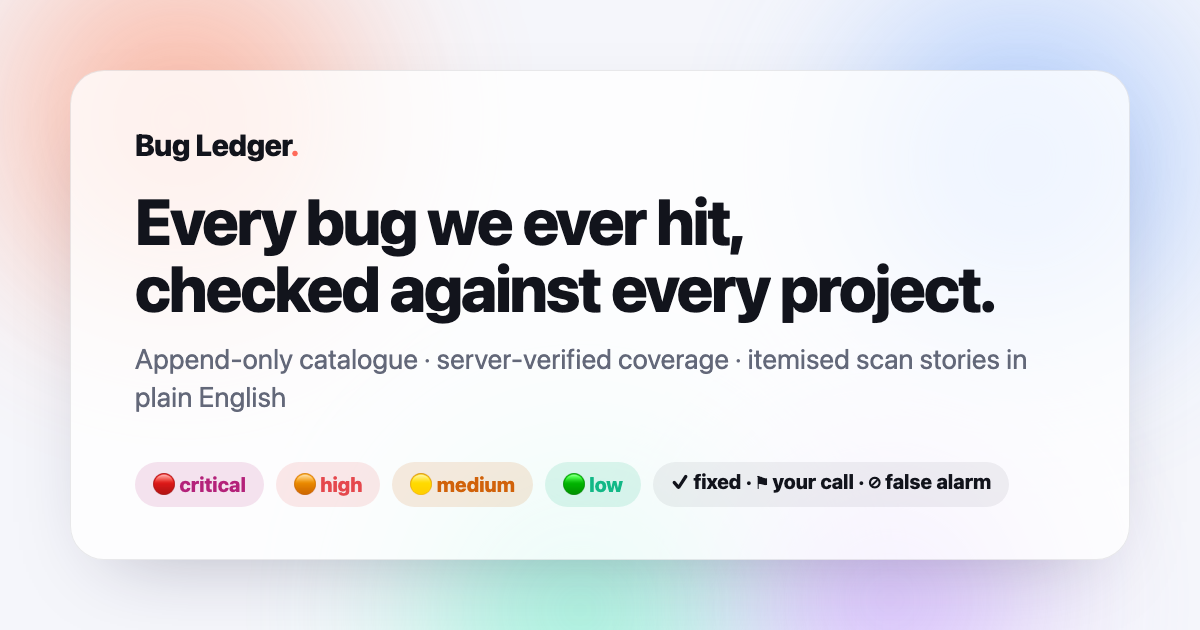
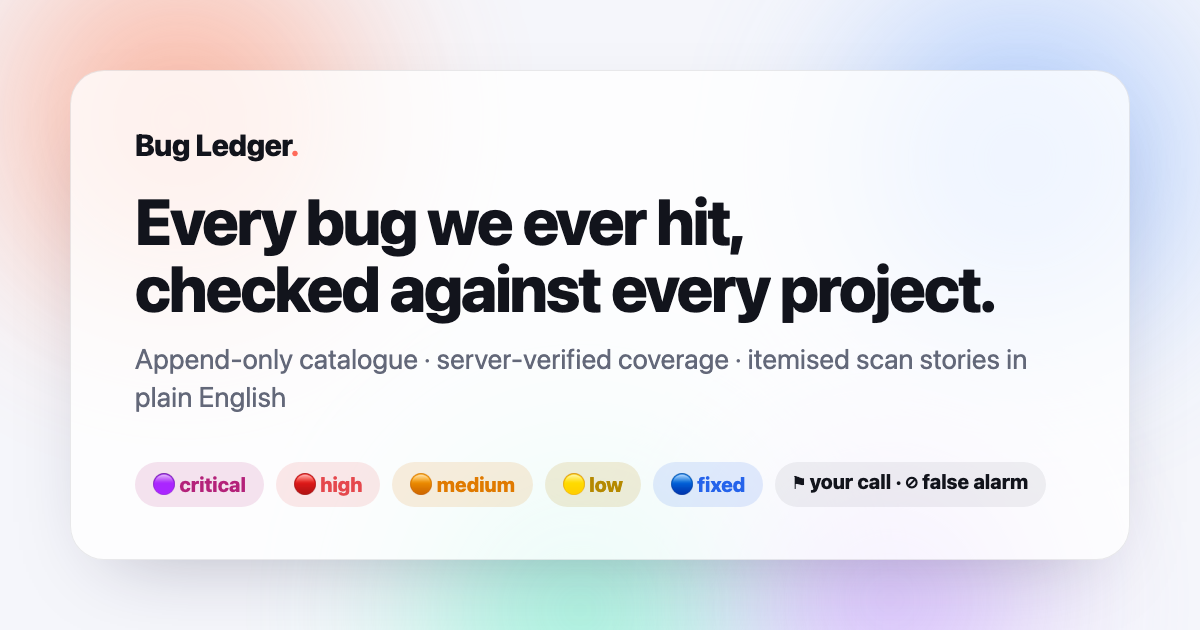
story: red high / blue fixed ladder, coverage donut back in the hero, tooltips on every tag, legacy-session copy

diff --git a/public/report.html b/public/report.html
@@ -17,12 +17,12 @@
     --bg:#f5f6fb; --ink:#12141c; --muted:#636879; --card:rgba(255,255,255,.76); --card2:rgba(255,255,255,.55);
     --line:rgba(18,20,28,.09); --coral:#ff6a5a; --good:#12b886; --violet:#8b7bf0; --amber:#e08a00; --red:#e5484d;
     --shadow:0 16px 44px -24px rgba(30,25,60,.32);
-    --crit:#b4227a; --high:#e5484d; --med:#d1620a; --low:#12b886; --info:#3b82f6; --gray:#6b7280;
-    --critbg:rgba(180,34,122,.12); --highbg:rgba(229,72,77,.12); --medbg:rgba(209,98,10,.13); --lowbg:rgba(18,184,134,.13); --infobg:rgba(59,130,246,.12);
+    --crit:#b4227a; --high:#e5484d; --med:#e07a00; --low:#b58900; --info:#6b7280; --fixed:#2563eb; --clean:#12b886; --gray:#6b7280;
+    --critbg:rgba(180,34,122,.12); --highbg:rgba(229,72,77,.12); --medbg:rgba(224,122,0,.13); --lowbg:rgba(181,137,0,.14); --infobg:rgba(107,114,128,.12); --fixedbg:rgba(37,99,235,.12); --cleanbg:rgba(18,184,134,.13);
   }
   @media (prefers-color-scheme:dark){
     :root{ --bg:#0b0d15; --ink:#eef0f7; --muted:#9aa0b4; --card:rgba(255,255,255,.055); --card2:rgba(255,255,255,.035);
-      --line:rgba(255,255,255,.11); --shadow:0 24px 60px -24px rgba(0,0,0,.7); --med:#f0883e; --low:#3ddc9a; }
+      --line:rgba(255,255,255,.11); --shadow:0 24px 60px -24px rgba(0,0,0,.7); --med:#f59e42; --low:#e3c000; --fixed:#60a5fa; --clean:#3ddc9a; }
   }
   html,body{margin:0;min-height:100%}
   body{font:16px/1.55 -apple-system,BlinkMacSystemFont,"Segoe UI",Inter,Roboto,sans-serif;color:var(--ink);
@@ -66,11 +66,13 @@
   .pill{display:inline-flex;align-items:center;gap:5px;font-size:11px;font-weight:800;letter-spacing:.03em;text-transform:uppercase;padding:3px 9px;border-radius:99px;white-space:nowrap;border:1px solid transparent;line-height:1.4}
   .pill.critical{color:var(--crit);background:var(--critbg)} .pill.high{color:var(--high);background:var(--highbg)}
   .pill.medium{color:var(--med);background:var(--medbg)} .pill.low{color:var(--low);background:var(--lowbg)} .pill.info{color:var(--info);background:var(--infobg)}
-  .pill.st-fixed{color:var(--good);background:var(--lowbg)} .pill.st-applied{color:var(--good);background:var(--lowbg)}
+  .pill.st-fixed{color:var(--fixed);background:var(--fixedbg)} .pill.st-applied{color:var(--fixed);background:var(--fixedbg)}
   .pill.st-open{color:var(--high);background:var(--highbg)} .pill.st-needs-call{color:var(--med);background:var(--medbg)}
   .pill.st-false-positive{color:var(--gray);background:color-mix(in srgb,var(--gray) 14%,transparent)}
   .pill.st-recommended{color:var(--violet);background:color-mix(in srgb,var(--violet) 14%,transparent)}
-  .pill.st-wontfix{color:var(--gray);background:color-mix(in srgb,var(--gray) 14%,transparent)} .pill.st-clean{color:var(--good);background:var(--lowbg)}
+  .pill.st-wontfix{color:var(--gray);background:color-mix(in srgb,var(--gray) 14%,transparent)} .pill.st-clean{color:var(--clean);background:var(--cleanbg)}
+  .chip.fixedc{color:var(--fixed);border-color:color-mix(in srgb,var(--fixed) 50%,transparent)}
+  .tile.fixed .n{color:var(--fixed)}
   .chip{display:inline-flex;align-items:center;gap:5px;font-size:12px;font-weight:700;padding:3px 10px;border-radius:99px;border:1px solid var(--line);color:var(--muted);background:transparent;font-family:inherit;cursor:default;line-height:1.4}
   .chip.mono{font-family:ui-monospace,Menlo,monospace;font-size:11.5px;font-weight:600}
   .chip.ok{color:var(--good);border-color:color-mix(in srgb,var(--good) 50%,transparent)}
@@ -84,6 +86,8 @@
   .summary button.chip .n{font-weight:800;color:var(--ink)}
   .hero{display:flex;gap:22px;align-items:flex-start;flex-wrap:wrap}
   .hero .txt{flex:1;min-width:260px}
+  .donutwrap{flex:none;text-align:center;cursor:help}
+  .donutwrap .dl{font-size:11.5px;color:var(--muted);font-weight:700;margin-top:2px}
   .meta{display:grid;grid-template-columns:repeat(auto-fit,minmax(120px,1fr));gap:10px;min-width:220px}
   .meta .tile{background:var(--card2);border:1px solid var(--line);border-radius:14px;padding:10px 13px}
   .tile .n{font-size:24px;font-weight:800;letter-spacing:-.02em;line-height:1.05}
@@ -153,7 +157,7 @@
   @media (max-width:560px){.kv{grid-template-columns:1fr;gap:2px}}
   .kv .k{color:var(--muted);font-weight:700;font-size:12px;text-transform:uppercase;letter-spacing:.05em;padding-top:3px}
   .kv .v{white-space:pre-wrap;word-break:break-word}
-  .kv.fixv .v{color:var(--good)} .kv.fixv .v::before{content:"✓ "}
+  .kv.fixv .v{color:var(--fixed)} .kv.fixv .v::before{content:"✓ "}
   .kv.recv .v::before{content:"→ "}
   .actions{display:flex;gap:8px;flex-wrap:wrap;margin-top:4px}
   .caret{display:inline-block;transition:transform .2s;color:var(--muted);font-size:12px;margin-left:4px}
@@ -172,7 +176,7 @@
   .ev .dot{position:absolute;left:-24px;top:13px;width:8px;height:8px;border-radius:50%;background:var(--muted)}
   .ev.found .dot{width:10px;height:10px;left:-25px;top:12px}
   .ev.found.critical .dot{background:var(--crit)} .ev.found.high .dot{background:var(--high)} .ev.found.medium .dot{background:var(--med)} .ev.found.low .dot{background:var(--low)} .ev.found.info .dot{background:var(--info)}
-  .ev.fixed .dot,.ev.clean .dot{background:var(--good)} .ev.metric .dot{background:var(--violet)} .ev.caveat .dot{background:var(--amber)} .ev.verdict .dot{background:var(--ink)}
+  .ev.fixed .dot{background:var(--fixed)} .ev.clean .dot{background:var(--clean)} .ev.metric .dot{background:var(--violet)} .ev.caveat .dot{background:var(--amber)} .ev.verdict .dot{background:var(--ink)}
   .ev .ic{width:22px;text-align:center;font-size:15px;line-height:1.5}
   .ev .tx b{font-weight:700}
   .ev .tx .d{color:var(--muted);font-size:13.5px;margin-top:2px;white-space:pre-wrap}
@@ -262,16 +266,16 @@
   function copy(text,msg){ (navigator.clipboard?navigator.clipboard.writeText(text):Promise.reject()).then(function(){toast(msg||'Copied')}).catch(function(){
     var ta=document.createElement('textarea');ta.value=text;document.body.appendChild(ta);ta.select();try{document.execCommand('copy');toast(msg||'Copied')}catch(e){toast('Could not copy')}ta.remove();}); }
 
-  var SEV={critical:{ic:'🔴',lbl:'Critical',do:'Fix now',why:'Could expose data, break sign-in or take the app down for real users.'},
-           high:{ic:'🟠',lbl:'High',do:'Fix before the next release',why:'A real user hits this in normal use, or it is a security weakness an attacker could use.'},
-           medium:{ic:'🟡',lbl:'Medium',do:'Schedule it',why:'Degrades the experience for some users — accessibility, wrong dates, silent failures.'},
-           low:{ic:'🟢',lbl:'Low',do:'Polish when convenient',why:'Cosmetic or best-practice; no user is blocked.'},
-           info:{ic:'🔵',lbl:'Info',do:'For your awareness',why:'A note, a clean check or context — nothing to fix.'}};
+  var SEV={critical:{ic:'🟣',lbl:'Critical',do:'Fix now — beyond red',why:'Could expose data, break sign-in or take the app down for real users.'},
+           high:{ic:'🔴',lbl:'High',do:'Fix before the next release',why:'A real user hits this in normal use, or it is a security weakness an attacker could use.'},
+           medium:{ic:'🟠',lbl:'Medium',do:'Schedule it',why:'Degrades the experience for some users — accessibility, wrong dates, silent failures.'},
+           low:{ic:'🟡',lbl:'Low',do:'Polish when convenient',why:'Cosmetic or best-practice; no user is blocked.'},
+           info:{ic:'⚪',lbl:'Info',do:'For your awareness',why:'A note, a clean check or context — nothing to fix.'}};
   var SEVORDER=['critical','high','medium','low','info'];
-  var ST={fixed:{ic:'✓',lbl:'Fixed'},applied:{ic:'✓',lbl:'Applied'},open:{ic:'◌',lbl:'Open'},'needs-call':{ic:'⚑',lbl:'Needs your call'},
-          'false-positive':{ic:'⊘',lbl:'False alarm'},recommended:{ic:'★',lbl:'Recommended'},wontfix:{ic:'—',lbl:'Won’t fix'},clean:{ic:'✓',lbl:'Clean'}};
+  var ST={fixed:{ic:'🔵',lbl:'Fixed'},applied:{ic:'🔵',lbl:'Applied'},open:{ic:'◌',lbl:'Open'},'needs-call':{ic:'⚑',lbl:'Needs your call'},
+          'false-positive':{ic:'⊘',lbl:'False alarm'},recommended:{ic:'★',lbl:'Recommended'},wontfix:{ic:'—',lbl:'Won’t fix'},clean:{ic:'🟢',lbl:'Clean'}};
   var EV={detector:'detector ran','code-read':'code read',test:'test passed',reasoned:'reasoned',assumed:'assumed'};
-  var STTIP={fixed:'Done during the scan. The change is made and described — nothing for you to do.',applied:'This upgrade was applied during the scan.',open:'Real and not yet fixed. Use “copy fix prompt” to hand it to an agent.','needs-call':'A decision only you can make — wording, policy or a destructive change. The agent explains and recommends; you decide.','false-positive':'The scanner flagged it; the agent read the code and ruled it out. Kept so you can see the reasoning.',recommended:'An optimiser (a reusable upgrade) this project would benefit from — not a bug.',wontfix:'Judged not worth changing, with the reason given.',clean:'Checked and nothing found.'};
+  var STTIP={fixed:'Blue = done during the scan. The change is made and described — nothing for you to do.',applied:'This upgrade was applied during the scan.',open:'Real and not yet fixed. Use “copy fix prompt” to hand it to an agent.','needs-call':'A decision only you can make — wording, policy or a destructive change. The agent explains and recommends; you decide.','false-positive':'The scanner flagged it; the agent read the code and ruled it out. Kept so you can see the reasoning.',recommended:'An optimiser (a reusable upgrade) this project would benefit from — not a bug.',wontfix:'Judged not worth changing, with the reason given.',clean:'Checked and nothing found.'};
   var EVTIP={detector:'A static check fired — deterministic, but only a lead until someone reads the line.','code-read':'The agent opened the file and confirmed it — the strongest everyday evidence.',test:'Proven by running a test.',reasoned:'Inferred, not inspected — treat as a claim.',assumed:'Assumed without checking — the weakest evidence.'};
   function tipAttr(head,doTxt,why){return ' tabindex="0" data-tip="'+esc(JSON.stringify({h:head,d:doTxt||'',w:why||''}))+'"';}
   function sevPill(s){s=SEV[s]?s:'info';return '<span class="pill '+s+'"'+tipAttr(SEV[s].ic+' '+SEV[s].lbl+' severity',SEV[s].do,SEV[s].why)+'>'+SEV[s].ic+' '+SEV[s].lbl+'</span>';}
@@ -361,7 +365,10 @@
 
     var html='';
     // ---- hero ----
-    html+='<div class="card"><div class="hero"><div class="txt">'+
+    var donutHtml = headline&&headline.coverage&&headline.coverage.total>0
+      ? '<div class="donutwrap" data-tip="'+esc(JSON.stringify({h:'Coverage '+headline.coverage.matched+'/'+headline.coverage.total,d:scopeLabel(headline.scope),w:'How much of the ledger catalogue this scan checked, verified by the server. Full detail under Coverage.'}))+' tabindex="0">'+donut(headline.coverage.matched,headline.coverage.total,'var(--clean)')+'<div class="dl">coverage · '+esc(scopeLabel(headline.scope))+'</div></div>'
+      : (real.length ? '<div class="donutwrap" data-tip="'+esc(JSON.stringify({h:'Resolved '+fixedN+'/'+real.length,d:'real issues fixed during the scan',w:'The share of real issues (false alarms excluded) already fixed. The rest are open or waiting on your call.'}))+' tabindex="0">'+donut(fixedN,real.length,'var(--fixed)')+'<div class="dl">resolved</div></div>' : '');
+    html+='<div class="card"><div class="hero">'+donutHtml+'<div class="txt">'+
       '<span class="kicker story">📖 Scan story'+(done?'':' · live')+'</span>'+
       '<h1>'+esc(s.app)+(s.project&&norm(s.project)!==norm(s.app)?' <span class="muted" style="font-weight:600">· '+esc(s.project)+'</span>':'')+'</h1>'+
       '<div class="sub">'+esc(s.title||'')+'</div>'+
@@ -369,16 +376,16 @@
       '<div class="verdict '+vcls+'">'+(vcls==='ok'?'✓ ':'⚠ ')+esc(vtxt)+'</div>'+
       '<div class="summary" role="group" aria-label="Filter findings by severity or status">'+
         SEVORDER.filter(function(k){return bySev[k]}).map(function(k){return '<button class="chip" type="button" data-filter="sev:'+k+'" data-tip="'+esc(JSON.stringify({h:SEV[k].ic+' '+SEV[k].lbl+' · '+bySev[k],d:SEV[k].do,w:SEV[k].why+' Click to show only these.'}))+'">'+SEV[k].ic+' <span class="n">'+bySev[k]+'</span> '+SEV[k].lbl.toLowerCase()+'</button>'}).join('')+
-        (fixedN?'<button class="chip ok" type="button" data-filter="st:fixed">✓ <span class="n">'+fixedN+'</span> fixed</button>':'')+
+        (fixedN?'<button class="chip fixedc" type="button" data-filter="st:fixed" data-tip="'+esc(JSON.stringify({h:'🔵 Fixed · '+fixedN,d:'Nothing for you to do',w:'Done during the scan; each one says what was changed. Click to show only these.'}))+'">🔵 <span class="n">'+fixedN+'</span> fixed</button>':'')+
         (needN?'<button class="chip" type="button" data-filter="st:needs-call">⚑ <span class="n">'+needN+'</span> need your call</button>':'')+
         (openN?'<button class="chip" type="button" data-filter="st:open">◌ <span class="n">'+openN+'</span> open</button>':'')+
         (fpN?'<button class="chip" type="button" data-filter="st:false-positive">⊘ <span class="n">'+fpN+'</span> false alarm'+(fpN>1?'s':'')+'</button>':'')+
-        (cleans.length?'<button class="chip ok" type="button" data-tab="clean">✅ <span class="n">'+cleans.length+'</span> families clean</button>':'')+
+        (cleans.length?'<button class="chip ok" type="button" data-tab="clean">🟢 <span class="n">'+cleans.length+'</span> families clean</button>':'')+
       '</div></div>'+
       '<div class="meta">'+
         (itemsChecked!=null?tile(itemsChecked,'items checked',''):tile(finds.length,'findings',''))+
         tile(real.length,'real issues',real.length?'warn':'good')+
-        tile(fixedN,'fixed','good')+
+        tile(fixedN,'fixed','fixed')+
         (inspected!=null?tile(Math.round(inspected/itemsChecked*100)+'%','inspected by reading','gray'):tile(adds.length,'added to ledger',''))+
       '</div></div></div>';
 
@@ -400,7 +407,7 @@
     if(fpN){ html+='<div class="tier"><div class="ic">⊘</div><div><b>'+fpN+' detector hit'+(fpN>1?'s':'')+' verified as false alarm'+(fpN>1?'s':'')+'</b><p>The scanner flagged them; the agent read the code and confirmed they are not real. Listed under Findings so you can see the reasoning — nothing to do.</p></div></div>'; }
     if(recN){ html+='<div class="tier"><div class="ic">★</div><div><b>'+recN+' elevation'+(recN>1?'s':'')+' worth applying</b><p>Not bugs — reusable upgrades from the optimiser catalogue this project would genuinely benefit from.</p></div></div>'; }
     if(caveats.length){ html+='<div class="tier"><div class="ic">⚠</div><div><b>'+caveats.length+' honest caveat'+(caveats.length>1?'s':'')+'</b><p>'+esc(caveats.map(fullText).join(' · '))+'</p></div></div>'; }
-    html+='</div>'+progressLine(d,real,fixedN,openN+needN,metrics)+'</div>';
+    html+='</div>'+(noStory?'':progressLine(d,real,fixedN,openN+needN,metrics))+'</div>';
 
     // ---- better since the scan ----
     if(metrics.length||fixedN){
@@ -428,7 +435,7 @@
         '</div>'+
         '<ol class="finds" id="findList">'+finds.map(findCard).join('')+'</ol><div class="empty" id="findEmpty" hidden>No findings match those filters.</div>';
     } else {
-      html+='<div class="center" style="padding:14px 0"><h2 style="justify-content:center;margin:0">✓ No issues raised'+(done?'':' yet')+'</h2><p class="muted" style="margin:6px 0 0">'+(done?'The agent walked the whole catalogue and raised nothing for this project.':'The scan is still running — findings appear here the moment the agent raises them.')+'</p></div>';
+      html+='<div class="center" style="padding:14px 0"><h2 style="justify-content:center;margin:0">'+(noStory?'📭 No story lines':'✓ No issues raised'+(done?'':' yet'))+'</h2><p class="muted" style="margin:6px 0 0">'+(noStory?'Nothing was narrated for this session, so there are no itemised findings to show — see Coverage for what was posted.':done?'The agent walked the whole catalogue and raised nothing for this project.':'The scan is still running — findings appear here the moment the agent raises them.')+'</p></div>';
     }
     html+='</section>';
 

diff --git a/public/live.html b/public/live.html
@@ -239,8 +239,8 @@
     document.getElementById('pollstate').textContent = sessions.some(function(s){return s.live;})?'live':'watching…';
   }
 
-  var SEVIC={critical:'🔴',high:'🟠',medium:'🟡',low:'🟢',info:'🔵'};
-  var EVIC={phase:'▶',say:'💬',found:'•',fixed:'✓',clean:'✅',metric:'📈',verdict:'🏁',caveat:'⚠',note:'·'};
+  var SEVIC={critical:'🟣',high:'🔴',medium:'🟠',low:'🟡',info:'⚪'};
+  var EVIC={phase:'▶',say:'💬',found:'•',fixed:'🔵',clean:'🟢',metric:'📈',verdict:'🏁',caveat:'⚠',note:'·'};
   function pollStory(c, s){
     var now=Date.now(); if(c.storyAt && now-c.storyAt<4000) return; c.storyAt=now;
     fetch('/api/story?id='+encodeURIComponent(s.id),{cache:'no-store'}).then(function(r){return r.json();}).then(function(d){
@@ -253,7 +253,7 @@
       c.refs.story.hidden=false;
       c.refs.storyLink.textContent=(nFound?nFound+' finding'+(nFound>1?'s':'')+' · ':'')+'open the full story →';
       c.refs.storyLines.innerHTML=last.map(function(e){
-        var SEVTIP={critical:'Critical — fix now. Could expose data, break sign-in or take the app down.',high:'High — fix before the next release. A real user hits this, or an attacker could use it.',medium:'Medium — schedule it. Degrades the experience for some users.',low:'Low — polish when convenient. No user is blocked.',info:'Info — for your awareness.'};
+        var SEVTIP={critical:'Critical (beyond red) — fix now. Could expose data, break sign-in or take the app down.',high:'High — fix before the next release. A real user hits this, or an attacker could use it.',medium:'Medium — schedule it. Degrades the experience for some users.',low:'Low — polish when convenient. No user is blocked.',info:'Info — for your awareness.'};
         var ic=e.kind==='found'?(SEVIC[e.severity]||'•'):(EVIC[e.kind]||'·');
         var icTitle=e.kind==='found'?(SEVTIP[e.severity]||''):'';
         var full=(e.detail&&/…$/.test(e.title||'')&&e.detail.indexOf((e.title||'').slice(0,-1))===0)?e.detail:(e.title||'');
